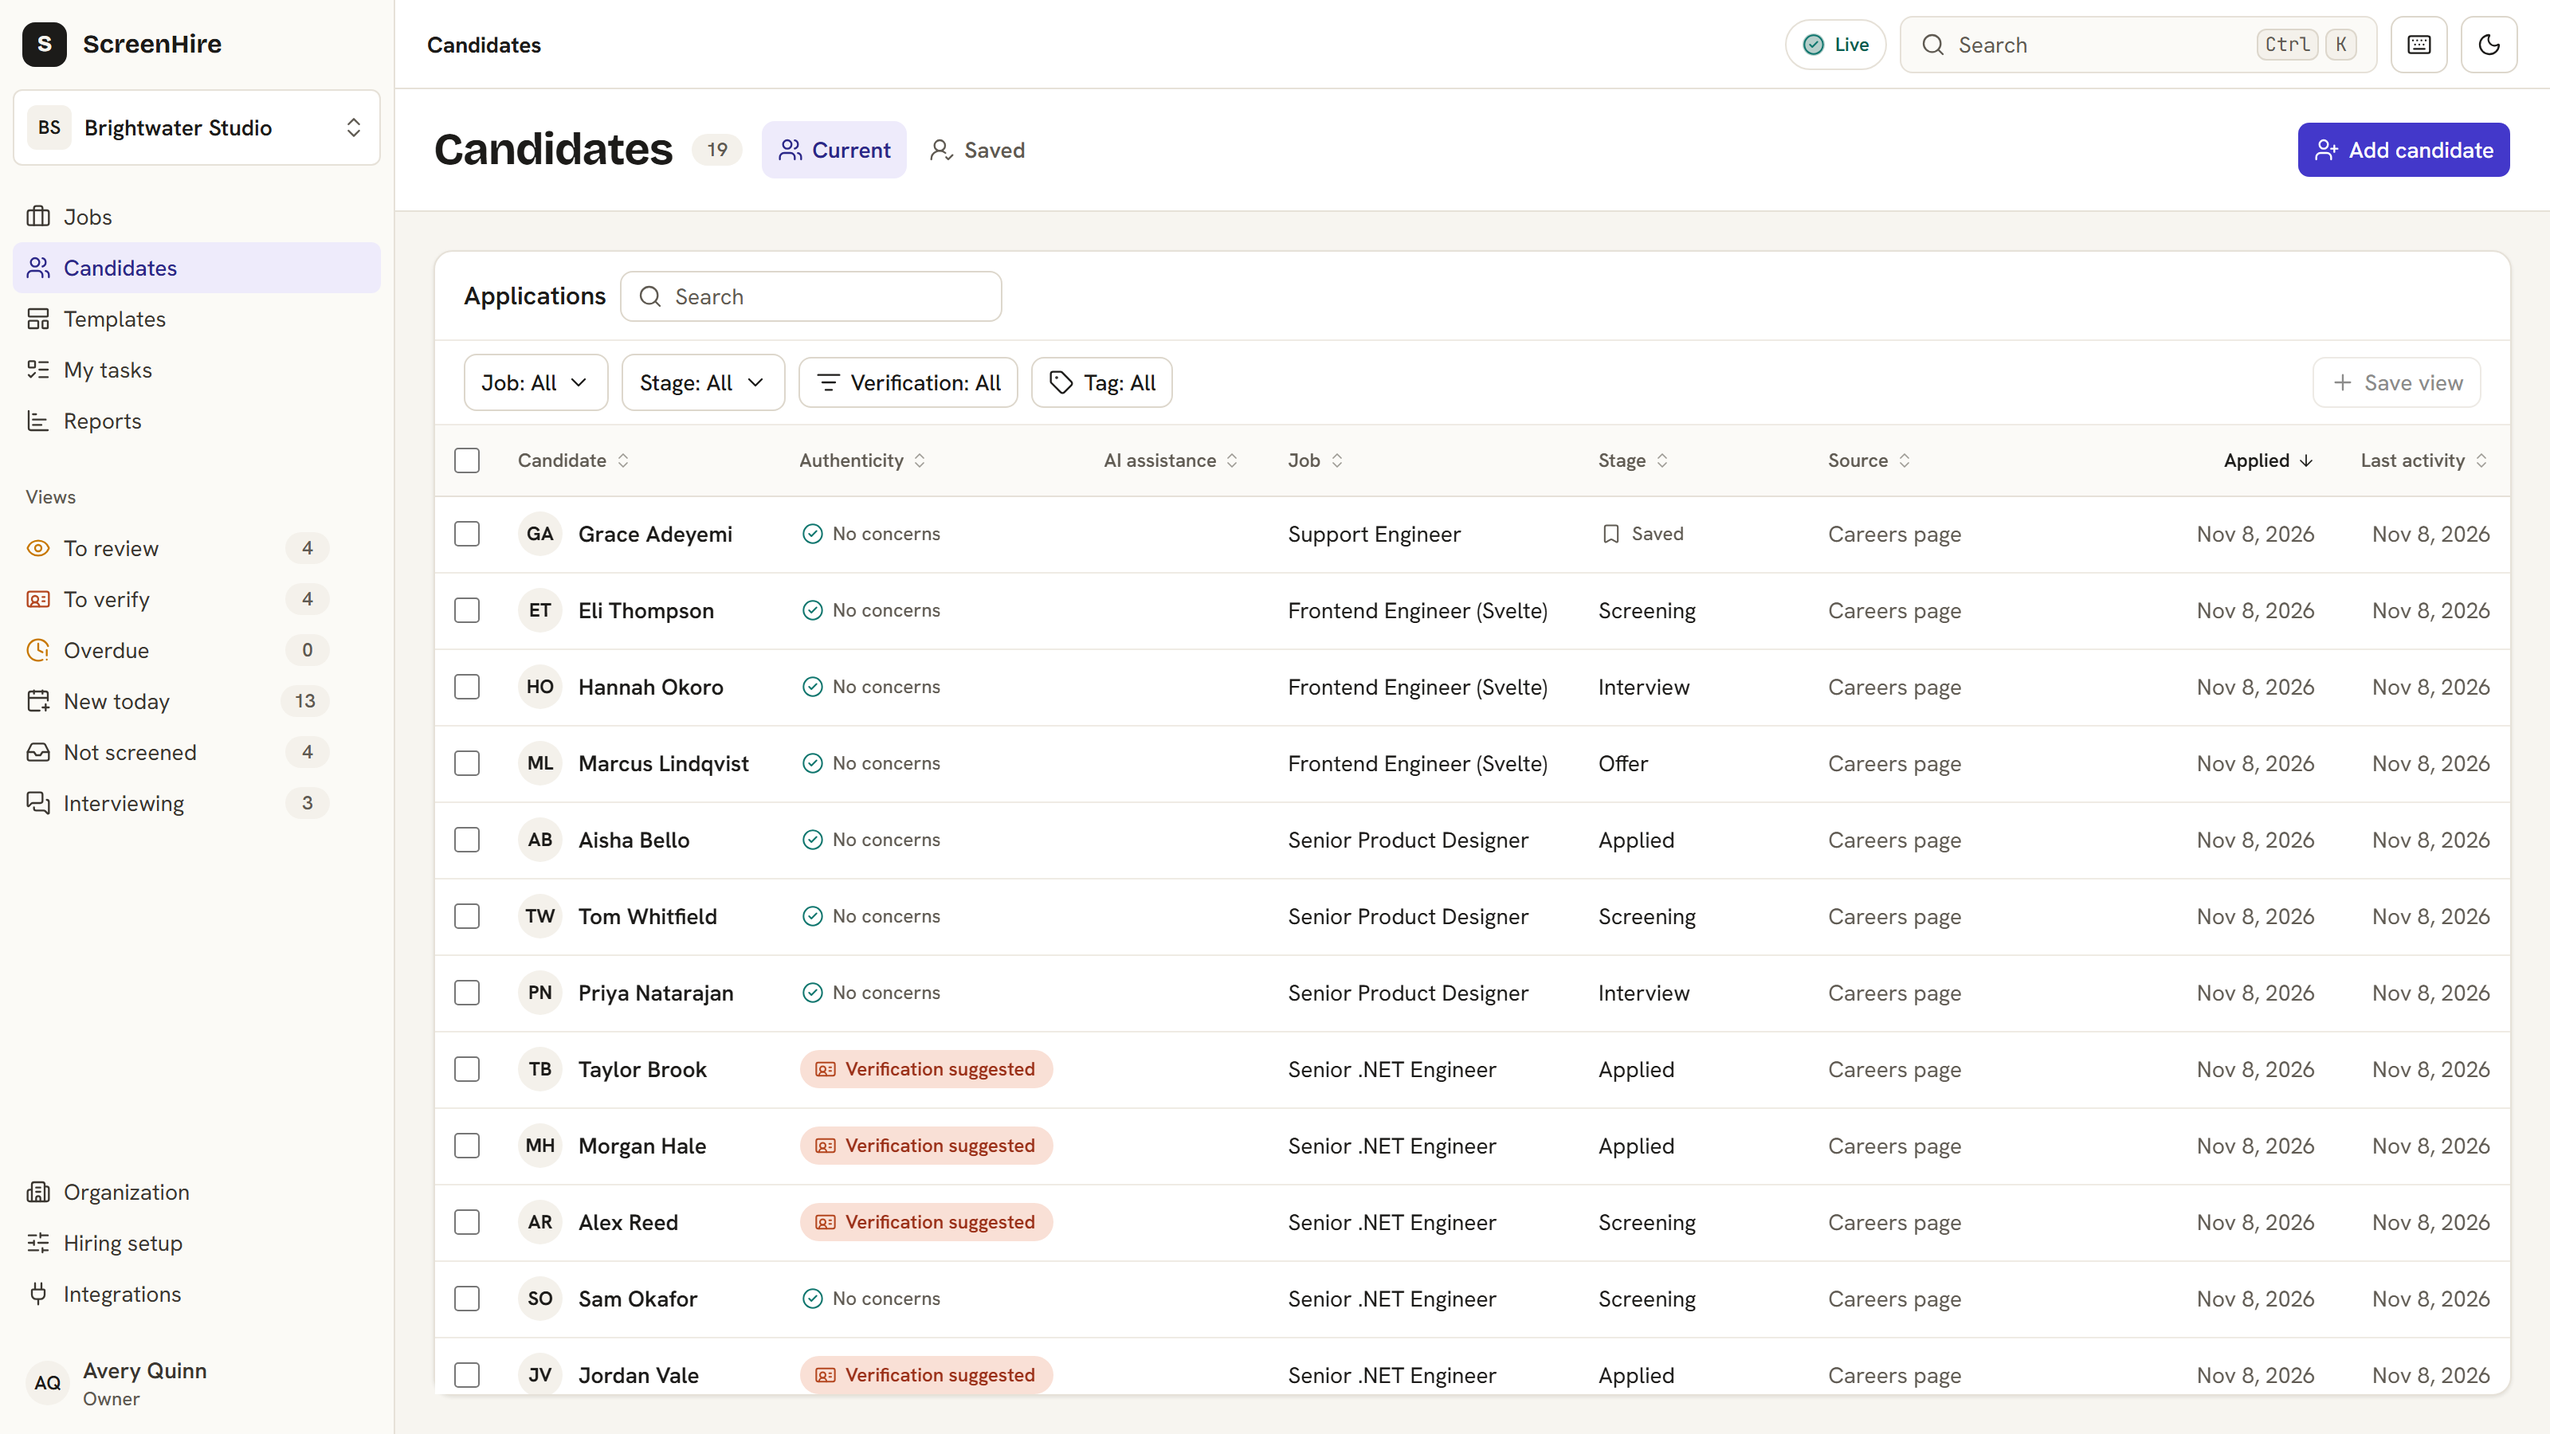
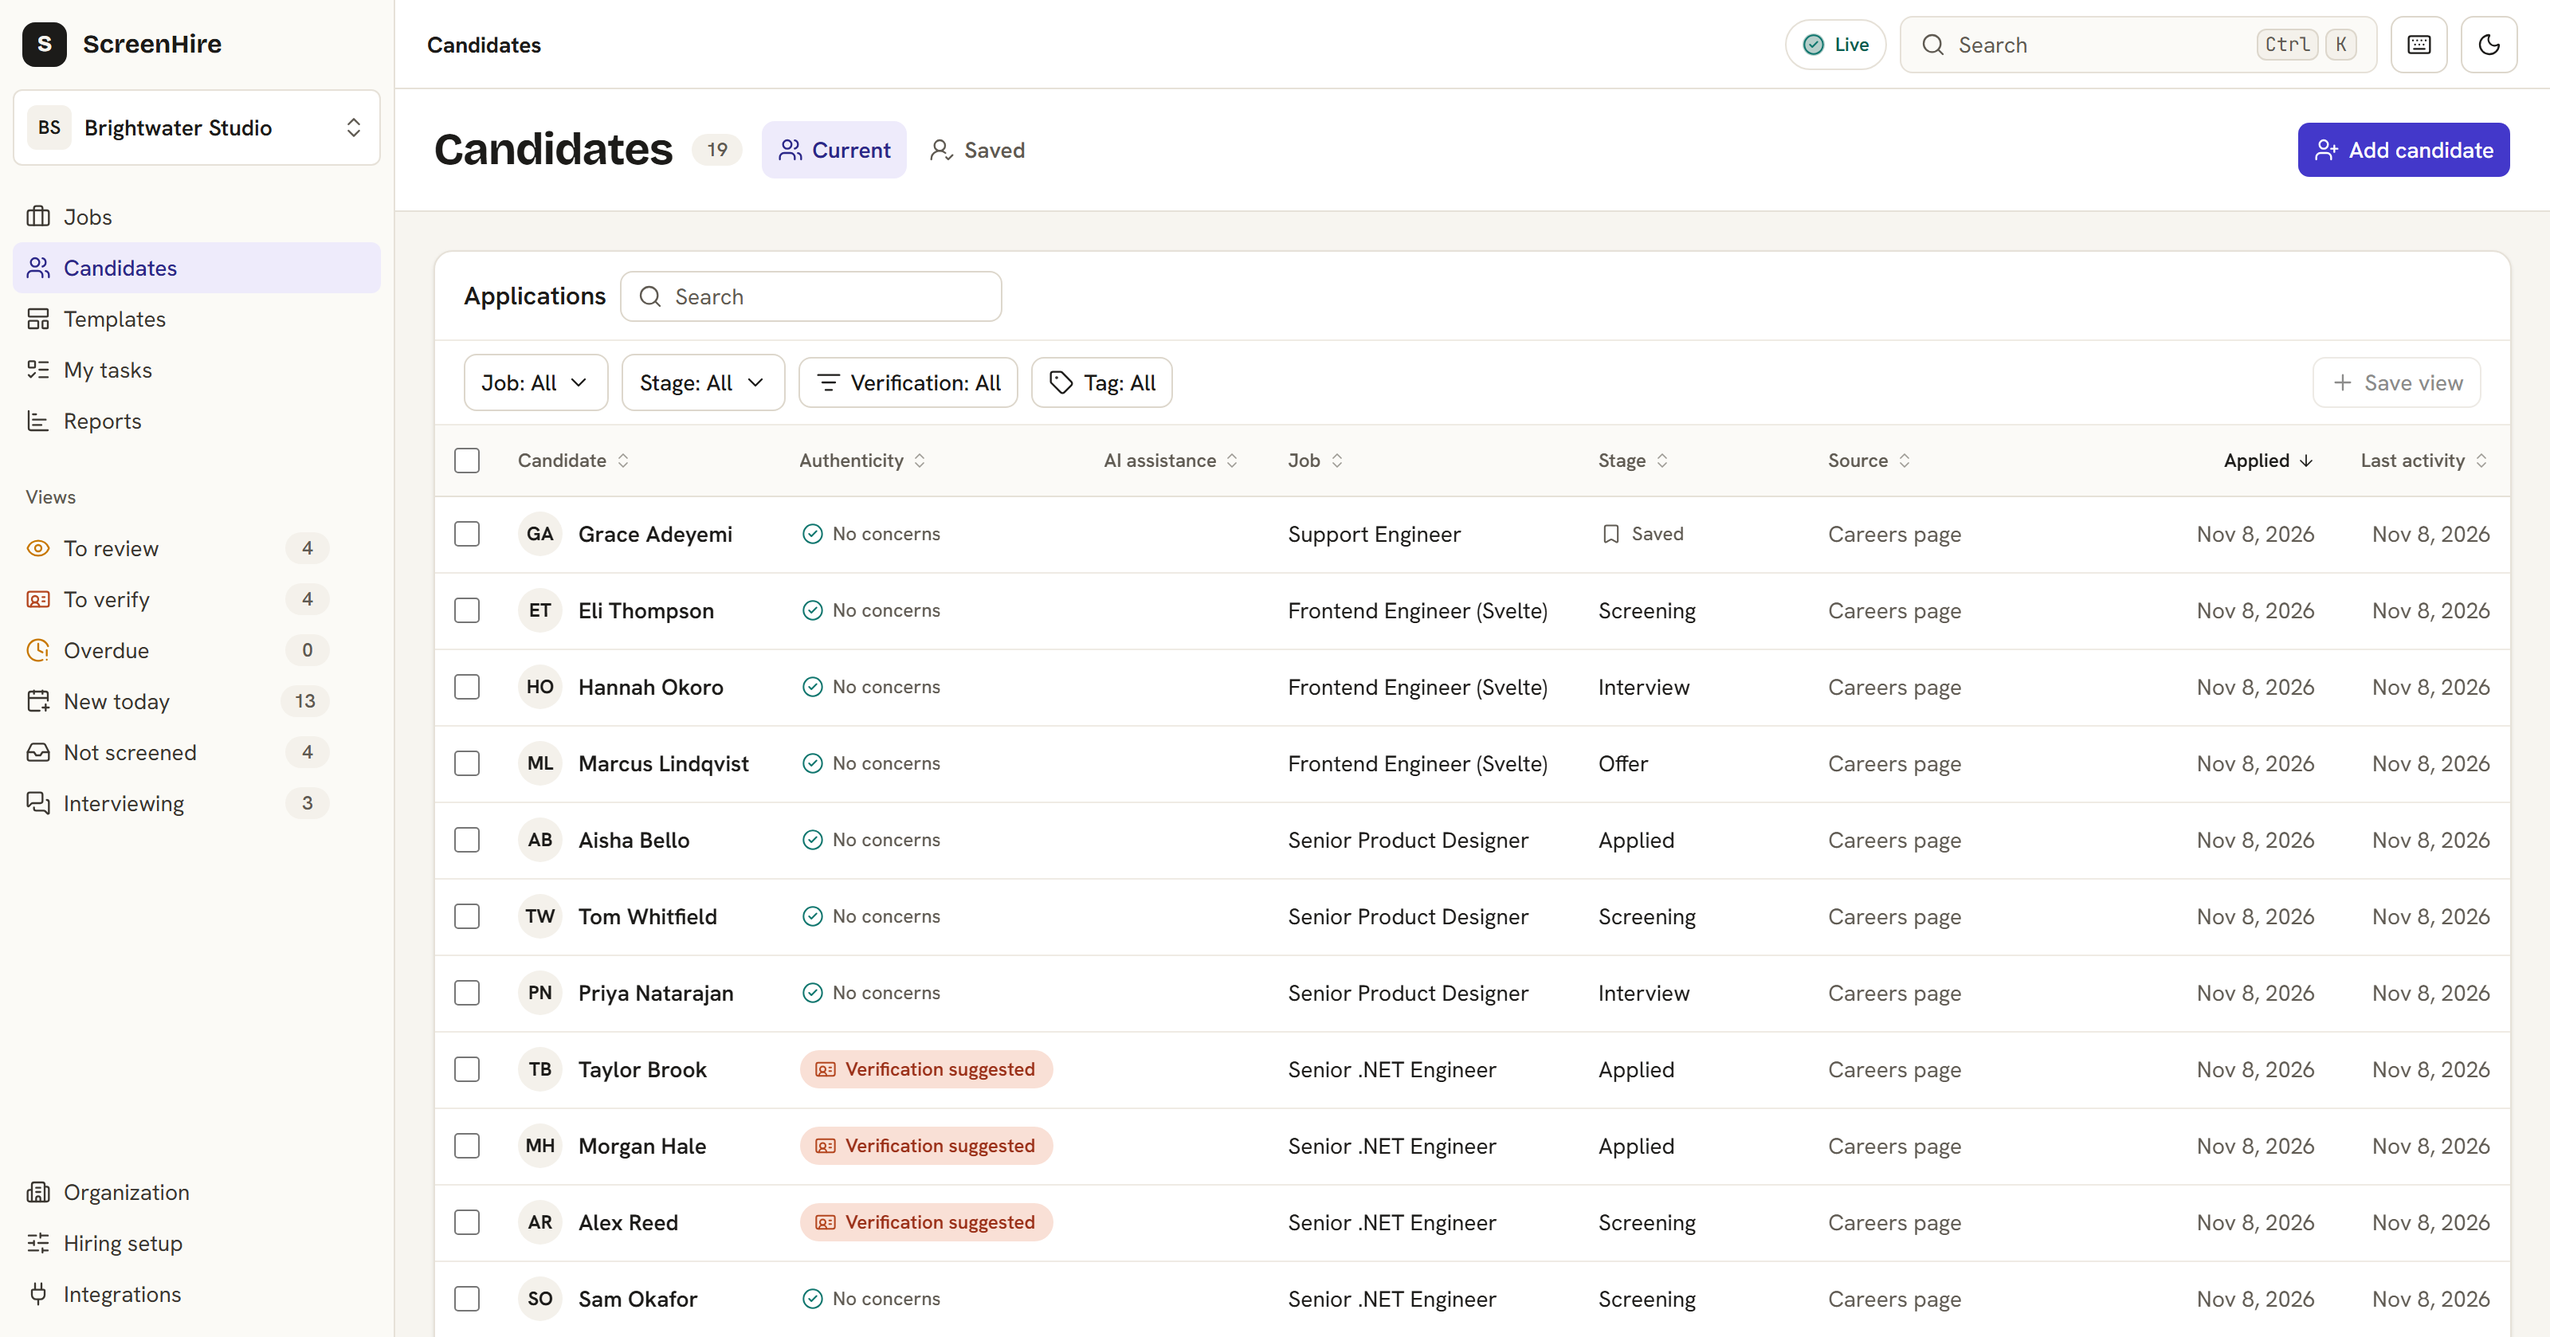
fix(review): screenshots that end on whole rows, a settled candidates list, the pipeline's last column whole
- Candidates: wait up to a minute for Joel Mensah's row and for no pending chip (every job's applicants are on
  the list, not just the one the test settles), and end the picture after the last row the window shows whole.
- Interview booking: both pictures end after the second day of times, in a window tall enough for two days.
- Reports: wait for the weekly trend's line, and stop the picture at the chart panel instead of a sliver of the next.
- Pipeline: 1980 wide, and the test fails if the board scrolls sideways in its own box (the Closed column was cut).
- Pictures are written only after every screen is taken, so a failed run leaves the committed set whole.
- testing.md: the activity picture is described as it is, with its emails and the reply.

diff --git a/tests/ScreenHire.E2E/MarketingScreenshotsTests.cs b/tests/ScreenHire.E2E/MarketingScreenshotsTests.cs
@@ -38,7 +38,7 @@ public sealed partial class MarketingScreenshotsTests(MarketingDemoFixture fixtu
     private const int Width = 1440;
     private const int Height = 900;
     private const int WideWidth = 1600;
-    private const int PipelineWidth = 1920; // all six columns of the board, the closed stages' column included
+    private const int PipelineWidth = 1980; // all six columns of the board whole, the closed stages' column included (checked)
 
     // Phone width: the pictures a page shows on a phone are the screens laid out for one, not a crop of the wide screen,
     // whose text would be cut mid-word.
@@ -60,21 +60,10 @@ public sealed partial class MarketingScreenshotsTests(MarketingDemoFixture fixtu
         var update = Environment.GetEnvironmentVariable(UpdateVariable) == "1";
         var directory = update ? ProductDirectory() : Path.Combine(AppContext.BaseDirectory, "TestResults", "marketing-screenshots");
         Directory.CreateDirectory(directory);
-        var written = new List<string>();
 
-        void Save(string name, byte[] png)
-        {
-            // What is committed is held to the budget below. A fresh capture is held to it only when it is about to be committed,
-            // because Chromium's text rendering differs between Windows and the Linux runners by a few percent.
-            if (update)
-            {
-                png.Length.Should().BeLessThan(MaxBytes, "{0}.png must stay under 600 KB; shrink the window", name);
-            }
-
-            File.WriteAllBytes(Path.Combine(directory, $"{name}.png"), png);
-            written.Add(name);
-            TestContext.Current.TestOutputHelper?.WriteLine($"{name}.png {png.Length / 1024} KB");
-        }
+        // The pictures are written only once every screen has been taken, so a run that fails part way leaves the committed set whole.
+        var taken = new Dictionary<string, byte[]>();
+        void Save(string name, byte[] png) => taken.Add(name, png);
 
         using var avery = new ApiSession(Fixture);
         await avery.SignInWithDevSsoAsync(OwnerSubject, Ct);
@@ -143,7 +132,8 @@ public sealed partial class MarketingScreenshotsTests(MarketingDemoFixture fixtu
                 Phone: new(Height: 2600, From: page => Entry(page, "Candidate replied"), To: page => Entry(page, "Good detail on the billing ledger"))),
 
             // 4. The candidates list with stage and last activity.
-            new("candidates", DashboardUrl("/candidates"), "Candidates", PrepareNoPendingChipsAsync, Width: WideWidth),
+            // The list runs past the window, so the picture ends after the last row the window shows whole.
+            new("candidates", DashboardUrl("/candidates"), "Candidates", PrepareCandidatesAsync, Width: WideWidth, WideTo: CaptureEnd, WideMargin: 0),
 
             // 5. The candidate's own page, from the link in the email they ask for.
             new("candidate-portal", portalLink, "Your applications", PreparePortalAsync, Public: true),
@@ -154,8 +144,11 @@ public sealed partial class MarketingScreenshotsTests(MarketingDemoFixture fixtu
                 page => Expect(page.GetByRole(AriaRole.Heading, new() { Name = "Workflow automations" })).ToBeVisibleAsync(), Height: 1480,
                 Phone: new(Height: 1800, Margin: 10, From: page => PanelTitled(page, "Stages"), To: Stage4)),
 
-            // 7. The candidate's interview booking page, before they pick a time.
-            new("interview-booking", bookingLink, "Pick a time for your interview", _ => Task.CompletedTask, Public: true),
+            // 7. The candidate's interview booking page, before they pick a time. Both pictures end after the second day of times;
+            // the window is tall enough for two whole days when the run starts early and today has times all day.
+            new("interview-booking", bookingLink, "Pick a time for your interview", _ => Task.CompletedTask, Public: true, Height: 1150,
+                WideTo: page => page.Locator("main fieldset").Nth(1), WideMargin: 12,
+                Phone: new(Height: 2400, Margin: 12, To: page => page.Locator("main fieldset").Nth(1))),
 
             // 8. The Integrations directory.
             new("integrations", DashboardUrl("/settings/integrations"), "Integrations",
@@ -169,7 +162,7 @@ public sealed partial class MarketingScreenshotsTests(MarketingDemoFixture fixtu
                 Phone: new(Height: 2800, Margin: 10, From: page => PanelTitled(page, "Colours").First, To: page => PanelTitled(page, "Images"))),
 
             // 10. Reports: the headline cards and the trend. On a phone the cards and the trend, with the table of open jobs between them out.
-            new("reports", DashboardUrl("/reports"), "Reports", _ => Task.CompletedTask, Height: 1400, WideTo: page => PanelTitled(page, "Applications and hires by week"),
+            new("reports", DashboardUrl("/reports"), "Reports", PrepareReportsAsync, Height: 1400, WideTo: page => PanelTitled(page, "Applications and hires by week"), WideMargin: 4,
                 Phone: new(
                     Height: 3000,
                     Margin: 10,
@@ -187,7 +180,23 @@ public sealed partial class MarketingScreenshotsTests(MarketingDemoFixture fixtu
 
         // Every screen has its full picture and its phone picture, and what is committed is there and within budget.
         var expected = screens.SelectMany(screen => new[] { screen.Name, $"{screen.Name}-phone" }).Order().ToList();
-        written.Order().Should().Equal(expected, "every screen takes its picture and its phone picture");
+        taken.Keys.Order().Should().Equal(expected, "every screen takes its picture and its phone picture");
+        foreach (var (name, png) in taken)
+        {
+            // What is committed is held to the budget below. A fresh capture is held to it only when it is about to be committed,
+            // because Chromium's text rendering differs between Windows and the Linux runners by a few percent.
+            if (update)
+            {
+                png.Length.Should().BeLessThan(MaxBytes, "{0}.png must stay under 600 KB; shrink the window", name);
+            }
+        }
+
+        foreach (var (name, png) in taken)
+        {
+            await File.WriteAllBytesAsync(Path.Combine(directory, $"{name}.png"), png, Ct);
+            TestContext.Current.TestOutputHelper?.WriteLine($"{name}.png {png.Length / 1024} KB");
+        }
+
         foreach (var name in expected)
         {
             var committed = new FileInfo(Path.Combine(ProductDirectory(), $"{name}.png"));
@@ -362,6 +371,14 @@ public sealed partial class MarketingScreenshotsTests(MarketingDemoFixture fixtu
         await page.GetByRole(AriaRole.Button, new() { Name = "Board", Exact = true }).ClickAsync();
         await Expect(page.GetByRole(AriaRole.Link, new() { Name = "Joel Mensah" }).First).ToBeVisibleAsync();
         await Expect(page.Locator("[data-verification-chip][data-level='pending']")).ToHaveCountAsync(0);
+
+        // The board scrolls inside its own box, which the page's own check does not see. In the laptop window every column is
+        // whole; on a phone the picture is one column on its own.
+        if (page.ViewportSize!.Width > PhoneWidth)
+        {
+            var overflow = await page.Locator("[data-pipeline-board]").EvaluateAsync<double>("board => board.scrollWidth - board.clientWidth");
+            overflow.Should().BeLessThanOrEqualTo(0, "every column of the board is whole; widen PipelineWidth");
+        }
     }
 
     private static async Task PrepareActivityAsync(IPage page)
@@ -370,8 +387,40 @@ public sealed partial class MarketingScreenshotsTests(MarketingDemoFixture fixtu
         await Expect(page.GetByText(new Regex("[Ii]nterview (booked|scheduled)")).First).ToBeVisibleAsync(Slow);
     }
 
-    private static Task PrepareNoPendingChipsAsync(IPage page) =>
-        Expect(page.Locator("[data-verification-chip][data-level='pending']")).ToHaveCountAsync(0);
+    // Every organization's applicants are on the list, the other jobs' included, so the wait is for the whole list: its rows are
+    // in, and no chip is still pending once the demo's analysis has drained.
+    private static async Task PrepareCandidatesAsync(IPage page)
+    {
+        // A table in the laptop window, a list on a phone.
+        const string rows = "main tbody tr, main ul[aria-label] > li";
+        await Expect(page.Locator(rows).Filter(new() { HasText = "Joel Mensah" })).ToHaveCountAsync(1, new() { Timeout = 60_000 });
+        await Expect(page.Locator("[data-verification-chip][data-level='pending']")).ToHaveCountAsync(0, new() { Timeout = 60_000 });
+        await MarkLastWholeAsync(page, rows);
+    }
+
+    private static async Task PrepareReportsAsync(IPage page) =>
+        await Expect(page.GetByText(new Regex(@"^Week of .+ applications"))).ToBeVisibleAsync(Slow);
+
+    private static ILocator CaptureEnd(IPage page) => page.Locator("[data-capture-end]");
+
+    // Marks the last element of a list that the window shows whole, so a picture can end below it instead of through the next.
+    // A list inside a scrolling box is cut by the box, which can end above the window's bottom.
+    private static async Task MarkLastWholeAsync(IPage page, string selector) =>
+        await page.EvaluateAsync(
+            """
+            selector => {
+              const shown = element => {
+                let bottom = innerHeight;
+                for (let box = element.parentElement; box; box = box.parentElement) {
+                  if (getComputedStyle(box).overflowY !== 'visible') bottom = Math.min(bottom, box.getBoundingClientRect().bottom);
+                }
+                return element.getBoundingClientRect().bottom <= bottom;
+              };
+              const whole = [...document.querySelectorAll(selector)].filter(shown);
+              whole.at(-1)?.setAttribute('data-capture-end', '');
+            }
+            """,
+            selector);
 
     private static async Task PreparePortalAsync(IPage page) =>
         await Expect(page.GetByRole(AriaRole.List, new() { Name = "Where your application is" }).GetByRole(AriaRole.Listitem)).ToHaveCountAsync(4);

diff --git a/docs/process/testing.md b/docs/process/testing.md
@@ -267,7 +267,7 @@ pictures that means opening them.
 The marketing site shows the real product, so its pictures are captured, not drawn. `MarketingScreenshotsTests` boots a
 stack of its own with the demo's data on (`MarketingDemoFixture`, `ScreenHire:Demo=true`, the production builds), signs in
 as Avery Quinn and takes each screen: both verification panels, a job's pipeline in light and dark, a candidate's activity
-and messages, the candidates list, the candidate's own page, a workflow's stages and automations, the interview booking
+with its emails and the reply, the candidates list, the candidate's own page, a workflow's stages and automations, the interview booking
 page, Integrations, a template's stages, the branding editor, Reports and the branded careers page. Each screen has a full
 picture (`name.png`) and a picture of the same screen laid out at phone width (`name-phone.png`), for a page to show on a phone.
 
@@ -277,7 +277,7 @@ picture (`name.png`) and a picture of the same screen laid out at phone width (`
 - **Without the variable** the test still opens every screen and takes every picture, into `TestResults/marketing-screenshots`
   beside the test assembly, and fails if a committed image is missing or over 600 KB. It compares no pixels: dates and
   "x minutes ago" differ on every run.
-- **Same picture every run:** a 1440 by 900 window (1920 wide for the pipeline, 1600 for the candidates list, taller for the activity, template, workflow and reports; 430 wide for the phone picture) at twice the pixels, reduced motion, the fonts loaded, `en-US` and
+- **Same picture every run:** a 1440 by 900 window (1980 wide for the pipeline, 1600 for the candidates list, taller for the activity, template, workflow and reports; 430 wide for the phone picture) at twice the pixels, reduced motion, the fonts loaded, `en-US` and
   `Europe/London`, no hover, focus ring, toast or caret, and no strip reserved for a scrollbar at the right (the test
   fails if the page keeps one or scrolls sideways). The verification panels hide the support code under each reason, which
   the public site does not show.
